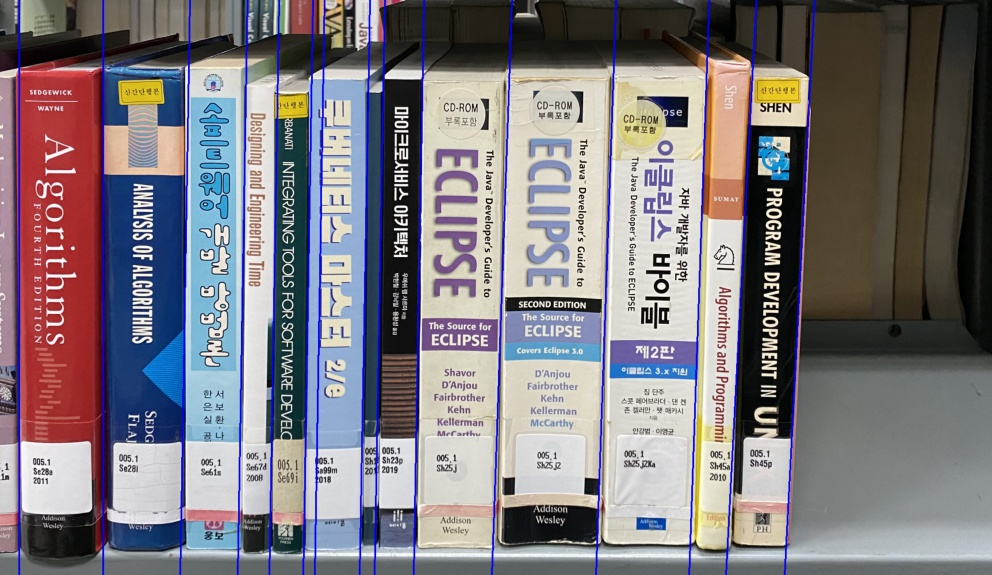
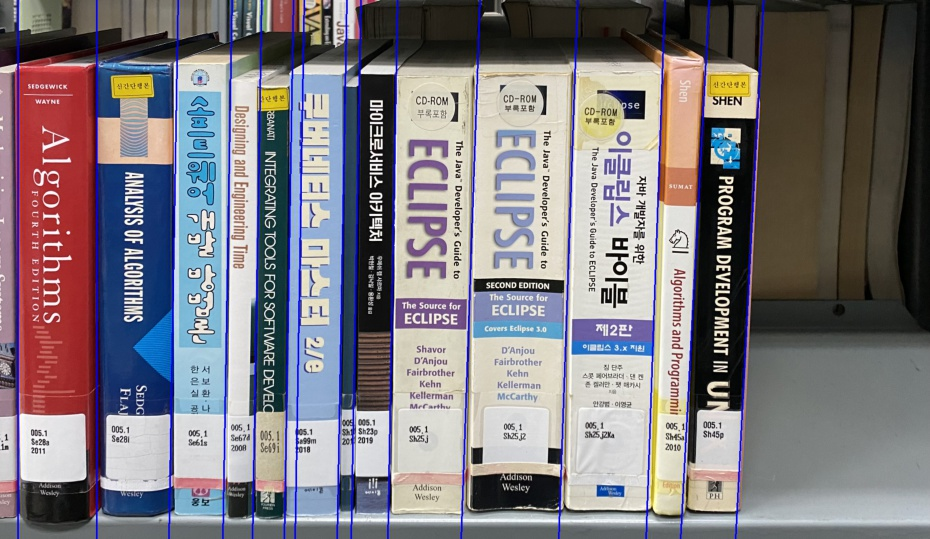
get_books_list 구현 완료

diff --git a/src/book_segmentation/book_segmentation.py b/src/book_segmentation/book_segmentation.py
@@ -57,6 +57,13 @@ def trim_lines(points: list, y_max: int, x_max: int):
             else:
                 start_point = (0, 0)
                 end_point(x_max, y_max)
+        if (
+            start_point[0] > x_max
+            or end_point[0] > x_max
+            or start_point[1] > y_max
+            or end_point[1] > y_max
+        ):
+            continue
 
         if start_point[1] < end_point[1]:
             shortened_points.append((start_point, end_point))
@@ -127,7 +134,7 @@ def convert_to_xy(
 
 
 def draw_hough_lines(img: np.ndarray, horizontal: bool = False) -> np.ndarray:
-    """이미지에 Hough Line을 그린다.
+    """이미지에서 Hough Line을 찾고 그린다.
 
     Args:
         img (np.ndarray): 입력 이미지
@@ -142,6 +149,14 @@ def draw_hough_lines(img: np.ndarray, horizontal: bool = False) -> np.ndarray:
         final_image = cv2.line(img, (x1, y1), (x2, y2), (0, 0, 255), 2)
 
     return final_image
+
+
+def draw_lines_on_image(img: np.ndarray, lines: np.ndarray) -> np.ndarray:
+    canvas = img.copy()
+    for line in lines:
+        ((x1, y1), (x2, y2)) = line
+        canvas = cv2.line(canvas, (x1, y1), (x2, y2), (0, 0, 255), 2)
+    return canvas
 
 
 def leave_horizontals_only(lines: np.ndarray) -> np.ndarray:
@@ -248,7 +263,6 @@ def finalize_lines(lines: list) -> list:
     finalized2 = []
     for i in range(len(finalized) - 1):
         line1, line2 = finalized[i], finalized[i + 1]
-        print(np.array(line1))
         upper_x_gap = line2[0][0] - line1[0][0]
         lower_x_gap = line2[1][0] - line1[1][0]
         if upper_x_gap < 20 or lower_x_gap < 20:
@@ -263,16 +277,24 @@ def finalize_lines(lines: list) -> list:
     return finalized2
 
 
-def book_segmentation(image_list: List[RowImage]) -> List[Book]:
+def get_books_list(image_list: List[RowImage]) -> List[Book]:
+    books = []
     for image in image_list:
         resized = resize_img(image.img, target_height=1000)
         lines = get_hough_lines(resized, horizontal=False)
+        # image_with_line = draw_lines_on_image(img=resized, lines=lines)
+        # show_image(image_with_line)
         for i in range(len(lines) - 1):
             line1, line2 = lines[i], lines[i + 1]
+            corner = np.vstack((np.array(line1), np.array(line2)))
+            new_book = Book(row_image=image, corner=corner)
+            books.append(new_book)
+    return books
 
 
 #%%
 if __name__ == "__main__":
+    # Prepare RowImages
     paths = [
         "./sample_inputs/sample1.jpeg",
         "./sample_inputs/sample2.jpeg",
@@ -280,8 +302,9 @@ if __name__ == "__main__":
         "./sample_inputs/sample4.jpeg",
         "./sample_inputs/sample5.jpg",
     ]
+    row_images = []
     for i, path in enumerate(paths, 1):
         np_image = read_image(path)
-        resized = resize_img(np_image, target_height=1000)
-        img_with_line = draw_hough_lines(resized, horizontal=False)
-        show_image(img_with_line, filename=f"out{i}", save=True)
+        row_images.append(RowImage(np_image, relative_floor=1))
+
+    books = get_books_list(row_images)

diff --git a/src/book_segmentation/__init__.py b/src/book_segmentation/__init__.py
@@ -1,1 +1,1 @@
-from .book_segmentation import book_segmentation
+from .book_segmentation import get_books_list
